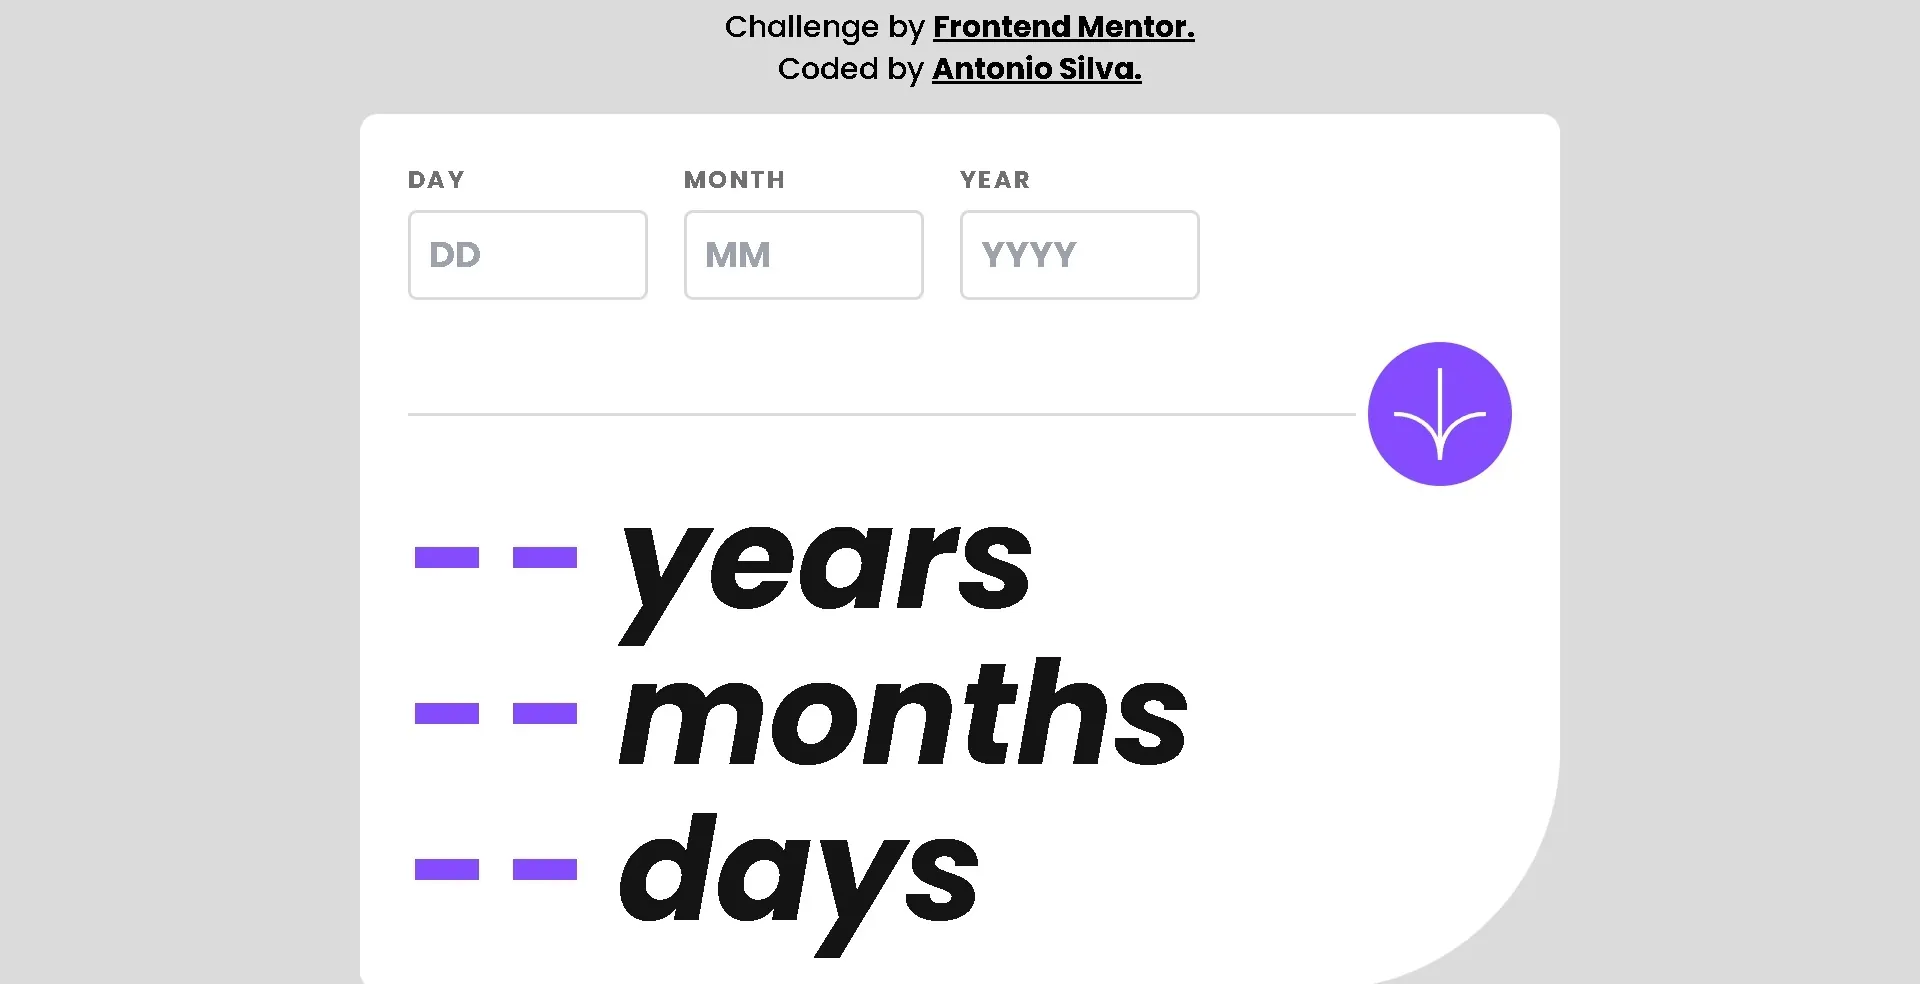
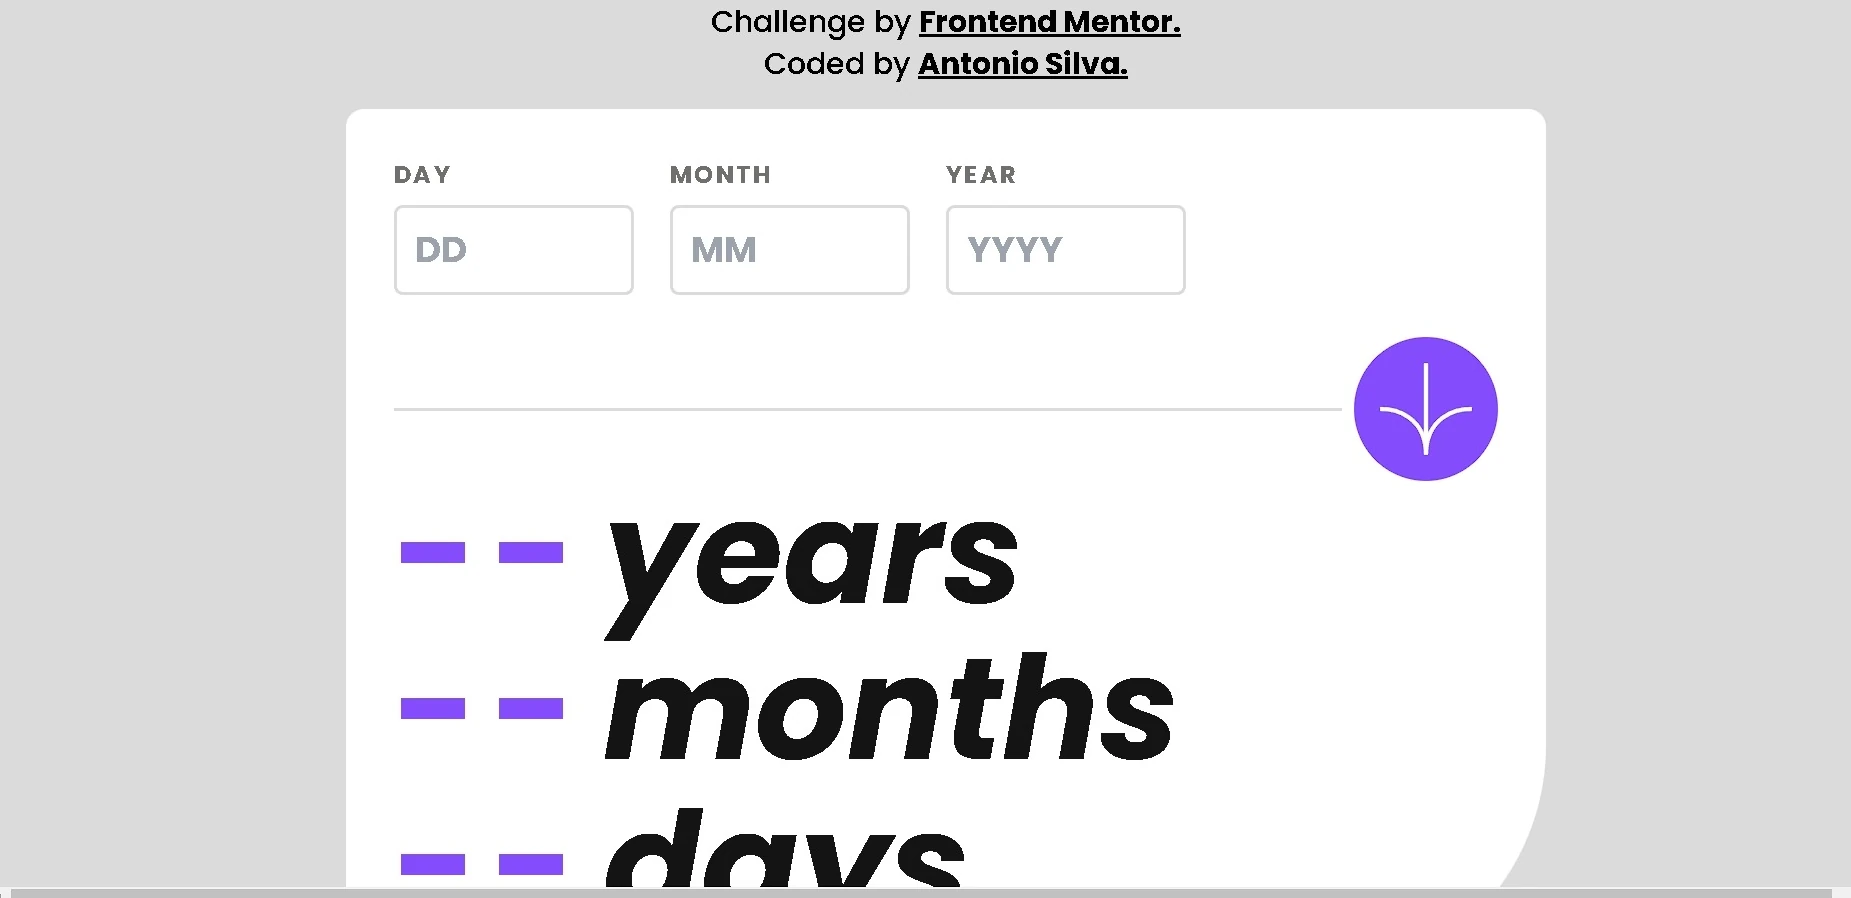
modified error project10 height

Changed region(s): [[0.0, 0.0, 1.0, 1.0], [0.2156, 0.1559, 0.6467, 0.343]]

diff --git a/src/index.html b/src/index.html
@@ -670,7 +670,7 @@
               <div class="proyecto proyecto10">
                 <img src="./imagenes/Projects/age-calculator.webp" alt="Rating">
                 <div class="overlay">
-                  <p data-section="projects" data-value="project10Name">Age Calc</p>
+                  <p data-section="projects" data-value="project10Name">Age Calculator</p>
                   <div class="iconos-contenedor">
                     <a target="_blank" href="https://github.com/Asilvazavala/Challenges-Frontend-Mentor/tree/main/C9-age-calculator-app-main" rel="noopener noreferrer">
                       <i class="bi bi-github"></i>

diff --git a/src/style.css b/src/style.css
@@ -753,7 +753,7 @@ h1 {
 
 /* Otros Proyectos */
 .proyectos-recientes {
-  padding: 70px 40px 0px 40px;
+  padding: 70px 10px 0px 10px;
   background-color: var(--blueMedium-whiteLight);
   transition: color 1s ease-in-out 0s, background 1s ease-in-out 0s;
 }
@@ -763,7 +763,7 @@ h1 {
 }
 
 .otros-proyectos {
-  padding: 40px;
+  padding: 40px 10px;
 }
 
 .otros-proyectos img {
@@ -792,7 +792,7 @@ h1 {
 }
 
 .overlay p {
-  font-size: 25px;
+  font-size: 20px;
   font-weight: bold;
   margin-bottom: 0;
   margin-top: 10px;
